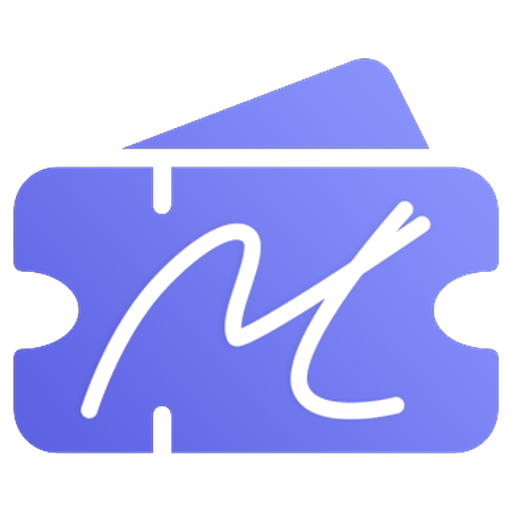
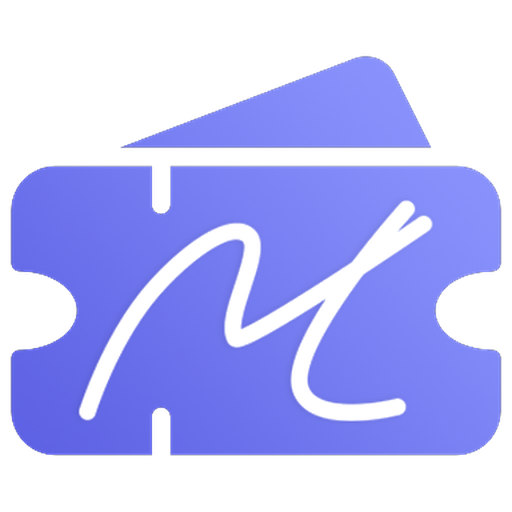
Update CSS styles and increment version for branding consistency
- Adjusted spacing and dimensions for brand and auth images in modern.css to enhance layout.
- Updated styles in style.css to include overflow property for improved design.
- Incremented version numbers for modern.css and base.html to reflect the latest changes.
- Updated image dimensions in HTML templates for better alignment with new styles.

diff --git a/static/css/modern.css b/static/css/modern.css
@@ -40,13 +40,14 @@ body {
 .topbar .brand {
   display: inline-flex;
   align-items: center;
-  gap: 0.55rem;
+  gap: 0.65rem;
   text-decoration: none;
 }
 
 .brand-mark {
-  width: 32px;
-  height: 32px;
+  /* Match full wordmark height (MLAMEH + Ticket), keep ticket aspect */
+  width: auto;
+  height: 40px;
   flex-shrink: 0;
   object-fit: contain;
   display: block;
@@ -55,8 +56,8 @@ body {
 
 .brand-logo {
   width: auto;
-  height: 36px;
-  max-width: min(168px, 42vw);
+  height: 40px;
+  max-width: min(190px, 48vw);
   flex-shrink: 0;
   object-fit: contain;
   background: transparent;
@@ -72,20 +73,21 @@ body {
   display: flex;
   align-items: center;
   justify-content: center;
-  gap: 0.75rem;
+  gap: 0.85rem;
   margin-bottom: 0.75rem;
 }
 
 .auth-brand-mark {
-  width: 48px;
-  height: 48px;
+  width: auto;
+  height: 56px;
   flex-shrink: 0;
   object-fit: contain;
   display: block;
+  background: transparent;
 }
 
 .auth-brand-lockup {
-  width: min(220px, 68vw);
+  width: min(240px, 68vw);
   height: auto;
   display: block;
   object-fit: contain;

diff --git a/templates/base.html b/templates/base.html
@@ -30,7 +30,7 @@
     <meta name="keywords" content="mlameh, mlameh ticket, support, ticketing, customer service">
     <title>{% block title %}mlameh ticket{% endblock title %}</title>
     <link rel="stylesheet" href="{% static 'css/style.css' %}?v=5.59">
-    <link rel="stylesheet" href="{% static 'css/modern.css' %}?v=2.50">
+    <link rel="stylesheet" href="{% static 'css/modern.css' %}?v=2.51">
     <link rel="stylesheet" href="{% static 'css/dark-mode.css' %}?v=1.24">
     <link rel="stylesheet" href="https://cdn.jsdelivr.net/npm/tom-select@2.2.2/dist/css/tom-select.default.min.css" />
     <link rel="icon" href="{% static 'images/mlameh-icon-fg.png' %}" type="image/png">
@@ -72,11 +72,11 @@
     <div class="app-shell">
         <header class="topbar">
             <a href="{% url 'tickets_list' %}" class="brand" aria-label="mlameh ticket Home">
-                <img src="{% static 'images/mlameh-icon-fg.png' %}" alt="" class="brand-mark" width="32" height="32">
+                <img src="{% static 'images/mlameh-icon-fg.png' %}" alt="" class="brand-mark" height="40">
                 <img src="{% static 'images/mlameh-ticket-logo.png' %}" alt="mlameh ticket"
-                    class="brand-logo brand-logo--light" height="36">
+                    class="brand-logo brand-logo--light" height="40">
                 <img src="{% static 'images/mlameh-ticket-logo-dark.png' %}" alt="mlameh ticket"
-                    class="brand-logo brand-logo--dark" height="36">
+                    class="brand-logo brand-logo--dark" height="40">
             </a>
 
             <div class="topbar-controls">

diff --git a/templates/accounts/login.html b/templates/accounts/login.html
@@ -9,7 +9,7 @@
     <div class="auth-card">
         <div class="auth-header">
             <div class="auth-brand">
-                <img src="{% static 'images/mlameh-icon-fg.png' %}" alt="" class="auth-brand-mark" width="48" height="48">
+                <img src="{% static 'images/mlameh-icon-fg.png' %}" alt="" class="auth-brand-mark" height="56">
                 <img src="{% static 'images/mlameh-ticket-logo.png' %}" alt="mlameh ticket"
                     class="auth-brand-lockup auth-brand-lockup--light">
                 <img src="{% static 'images/mlameh-ticket-logo-dark.png' %}" alt="mlameh ticket"

diff --git a/static/css/style.css b/static/css/style.css
@@ -348,6 +348,7 @@ body::before {
   background: #ffffff;
   color: var(--text-main);
   border-radius: 16px;
+  overflow: hidden;
   box-shadow:
     0 25px 50px -12px rgba(0, 0, 0, 0.18),
     0 0 0 1px rgba(0, 0, 0, 0.04);